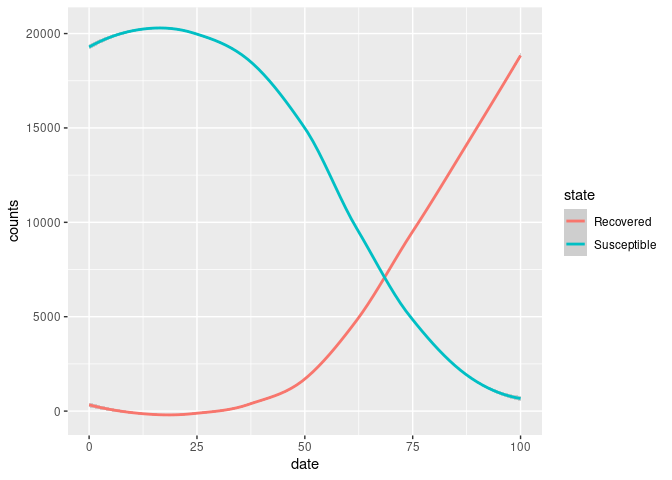
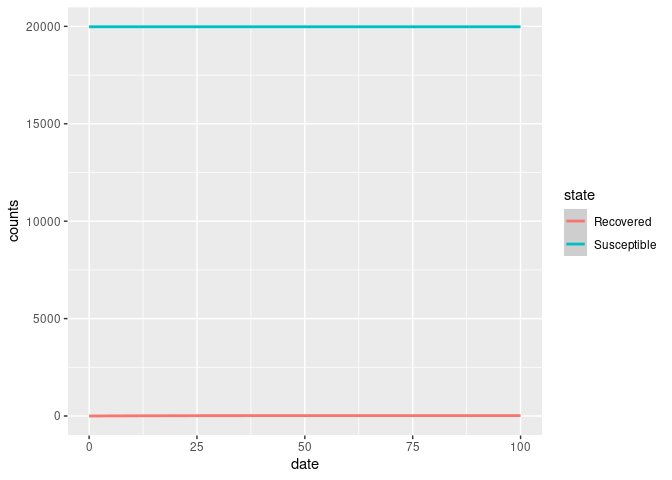
Adding the logit as a probability of isolation

diff --git a/model-rt4/README.md b/model-rt4/README.md
@@ -24,6 +24,11 @@ parameters defined above.
 
 # Running the model
 
+In the following example, we change the transmission rate to be a
+function of whether an individual becomes isolated. To do this, at the
+beginning, we randomly assign a 0/1 value and define the transmission
+rate as a function of this value.
+
 ``` r
 # Reading in parameters
 n      <- 2e4      # Population size
@@ -49,32 +54,17 @@ set.seed(331)
 isolate <- cbind(1, as.numeric(runif(n) < (1 - asymrate)))
 set_agents_data(mymodel, isolate)
 
-# Adding isolation as a tool
-isolate_fun <- tool_fun_logit(
+# Creating the function for setting the probability of transmission
+fun <- virus_fun_logit(
   vars = c(0L, 1L),
   coefs = c(-10, dlogis(trate)),
   mymodel
   )
 
-isolate <- tool(
-  "Isolate",
-  susceptibility_reduction = 0, 
-  transmission_reduction = 0,
-  recovery_enhancer = 0,
-  death_reduction = 0
-  )
-set_transmission_reduction_fun(isolate, mymodel, isolate_fun)
-```
-
-    Tool           : Isolate
-    Id             : (empty)
-    state_init    : -99
-    state_post    : -99
-    queue_init     : 0
-    queue_post     : 0
-
-``` r
-add_tool_n(mymodel, isolate, n)
+# Changing the transmission probability to be a function of the isolated
+# population
+get_virus(mymodel, 0) |>
+  set_prob_infecting_fun(mymodel, fun)
 ```
 
 ``` r
@@ -113,9 +103,9 @@ summary(mymodel)
     Days (duration)     : 100 (of 100)
     Number of viruses   : 1
     Last run elapsed t  : 0.00s
-    Total elapsed t     : 17.00s (200 runs)
-    Last run speed      : 3.04 million agents x day / second
-    Average run speed   : 23.46 million agents x day / second
+    Total elapsed t     : 15.00s (200 runs)
+    Last run speed      : 3.77 million agents x day / second
+    Average run speed   : 25.84 million agents x day / second
     Rewiring            : off
 
     Global actions:
@@ -125,7 +115,7 @@ summary(mymodel)
      - SEIR with test (baseline prevalence: 0.10%)
 
     Tool(s):
-     - Isolate (baseline prevalence: 20000 seeds)
+     (none)
 
     Model parameters:
      - Avg. Incubation days : 7.0000
@@ -134,15 +124,15 @@ summary(mymodel)
      - Prob. Transmission   : 0.3000
 
     Distribution of the population at time 100:
-      - (0) Susceptible : 19980 -> 1313
-      - (1) Exposed     :    20 -> 791
-      - (2) Infected    :     0 -> 1479
-      - (3) Recovered   :     0 -> 16417
+      - (0) Susceptible : 19980 -> 19980
+      - (1) Exposed     :    20 -> 0
+      - (2) Infected    :     0 -> 0
+      - (3) Recovered   :     0 -> 20
 
     Transition Probabilities:
-     - Susceptible  0.97  0.03  0.00  0.00
-     - Exposed      0.00  0.86  0.14  0.00
-     - Infected     0.00  0.00  0.86  0.14
+     - Susceptible  1.00  0.00  0.00  0.00
+     - Exposed      0.00  0.81  0.19  0.00
+     - Infected     0.00  0.00  0.88  0.12
      - Recovered    0.00  0.00  0.00  1.00
 
 ``` r
@@ -173,9 +163,45 @@ ggplot(rt_sample, aes(x = source_exposure_date, y = rt)) +
 
     `geom_smooth()` using formula = 'y ~ x'
 
-    Warning: Removed 9 rows containing non-finite values (`stat_smooth()`).
+    Warning in simpleLoess(y, x, w, span, degree = degree, parametric = parametric,
+    : span too small.  fewer data values than degrees of freedom.
 
-    Warning: Removed 9 rows containing missing values (`geom_point()`).
+    Warning in simpleLoess(y, x, w, span, degree = degree, parametric = parametric,
+    : pseudoinverse used at -0.07
+
+    Warning in simpleLoess(y, x, w, span, degree = degree, parametric = parametric,
+    : neighborhood radius 11.07
+
+    Warning in simpleLoess(y, x, w, span, degree = degree, parametric = parametric,
+    : reciprocal condition number 0
+
+    Warning in simpleLoess(y, x, w, span, degree = degree, parametric = parametric,
+    : There are other near singularities as well. 197.96
+
+    Warning in predLoess(object$y, object$x, newx = if (is.null(newdata)) object$x
+    else if (is.data.frame(newdata))
+    as.matrix(model.frame(delete.response(terms(object)), : span too small.  fewer
+    data values than degrees of freedom.
+
+    Warning in predLoess(object$y, object$x, newx = if (is.null(newdata)) object$x
+    else if (is.data.frame(newdata))
+    as.matrix(model.frame(delete.response(terms(object)), : pseudoinverse used at
+    -0.07
+
+    Warning in predLoess(object$y, object$x, newx = if (is.null(newdata)) object$x
+    else if (is.data.frame(newdata))
+    as.matrix(model.frame(delete.response(terms(object)), : neighborhood radius
+    11.07
+
+    Warning in predLoess(object$y, object$x, newx = if (is.null(newdata)) object$x
+    else if (is.data.frame(newdata))
+    as.matrix(model.frame(delete.response(terms(object)), : reciprocal condition
+    number 0
+
+    Warning in predLoess(object$y, object$x, newx = if (is.null(newdata)) object$x
+    else if (is.data.frame(newdata))
+    as.matrix(model.frame(delete.response(terms(object)), : There are other near
+    singularities as well. 197.96
 
 ![](README_files/figure-commonmark/repnum-1.png)
 
@@ -204,12 +230,6 @@ ggplot(gentime_sample, aes(x = source_exposure_date, y = gtime)) +
     geom_smooth(method = "loess", se = TRUE) +
     lims(y = c(0, 10))
 ```
-
-    `geom_smooth()` using formula = 'y ~ x'
-
-    Warning: Removed 295 rows containing non-finite values (`stat_smooth()`).
-
-    Warning: Removed 295 rows containing missing values (`geom_point()`).
 
 ![](README_files/figure-commonmark/gentime-1.png)
 
@@ -319,11 +339,11 @@ epicurves_end[, .(
     ), by = "state"] |> knitr::kable()
 ```
 
-| state       |       Avg |     50% |      2.5% |    97.5% |
-|:------------|----------:|--------:|----------:|---------:|
-| Susceptible |  1080.845 |  1037.5 |   870.775 |  1635.15 |
-| Exposed     |   447.765 |   382.0 |   175.825 |  1330.80 |
-| Infected    |   911.385 |   840.5 |   416.875 |  2125.30 |
-| Recovered   | 17560.005 | 17771.5 | 14857.075 | 18537.15 |
+| state       |      Avg |   50% |  2.5% | 97.5% |
+|:------------|---------:|------:|------:|------:|
+| Susceptible | 19979.99 | 19980 | 19980 | 19980 |
+| Exposed     |     0.00 |     0 |     0 |     0 |
+| Infected    |     0.00 |     0 |     0 |     0 |
+| Recovered   |    20.01 |    20 |    20 |    20 |
 
 [^1]: The description of the model was generated by GitHub copilot
